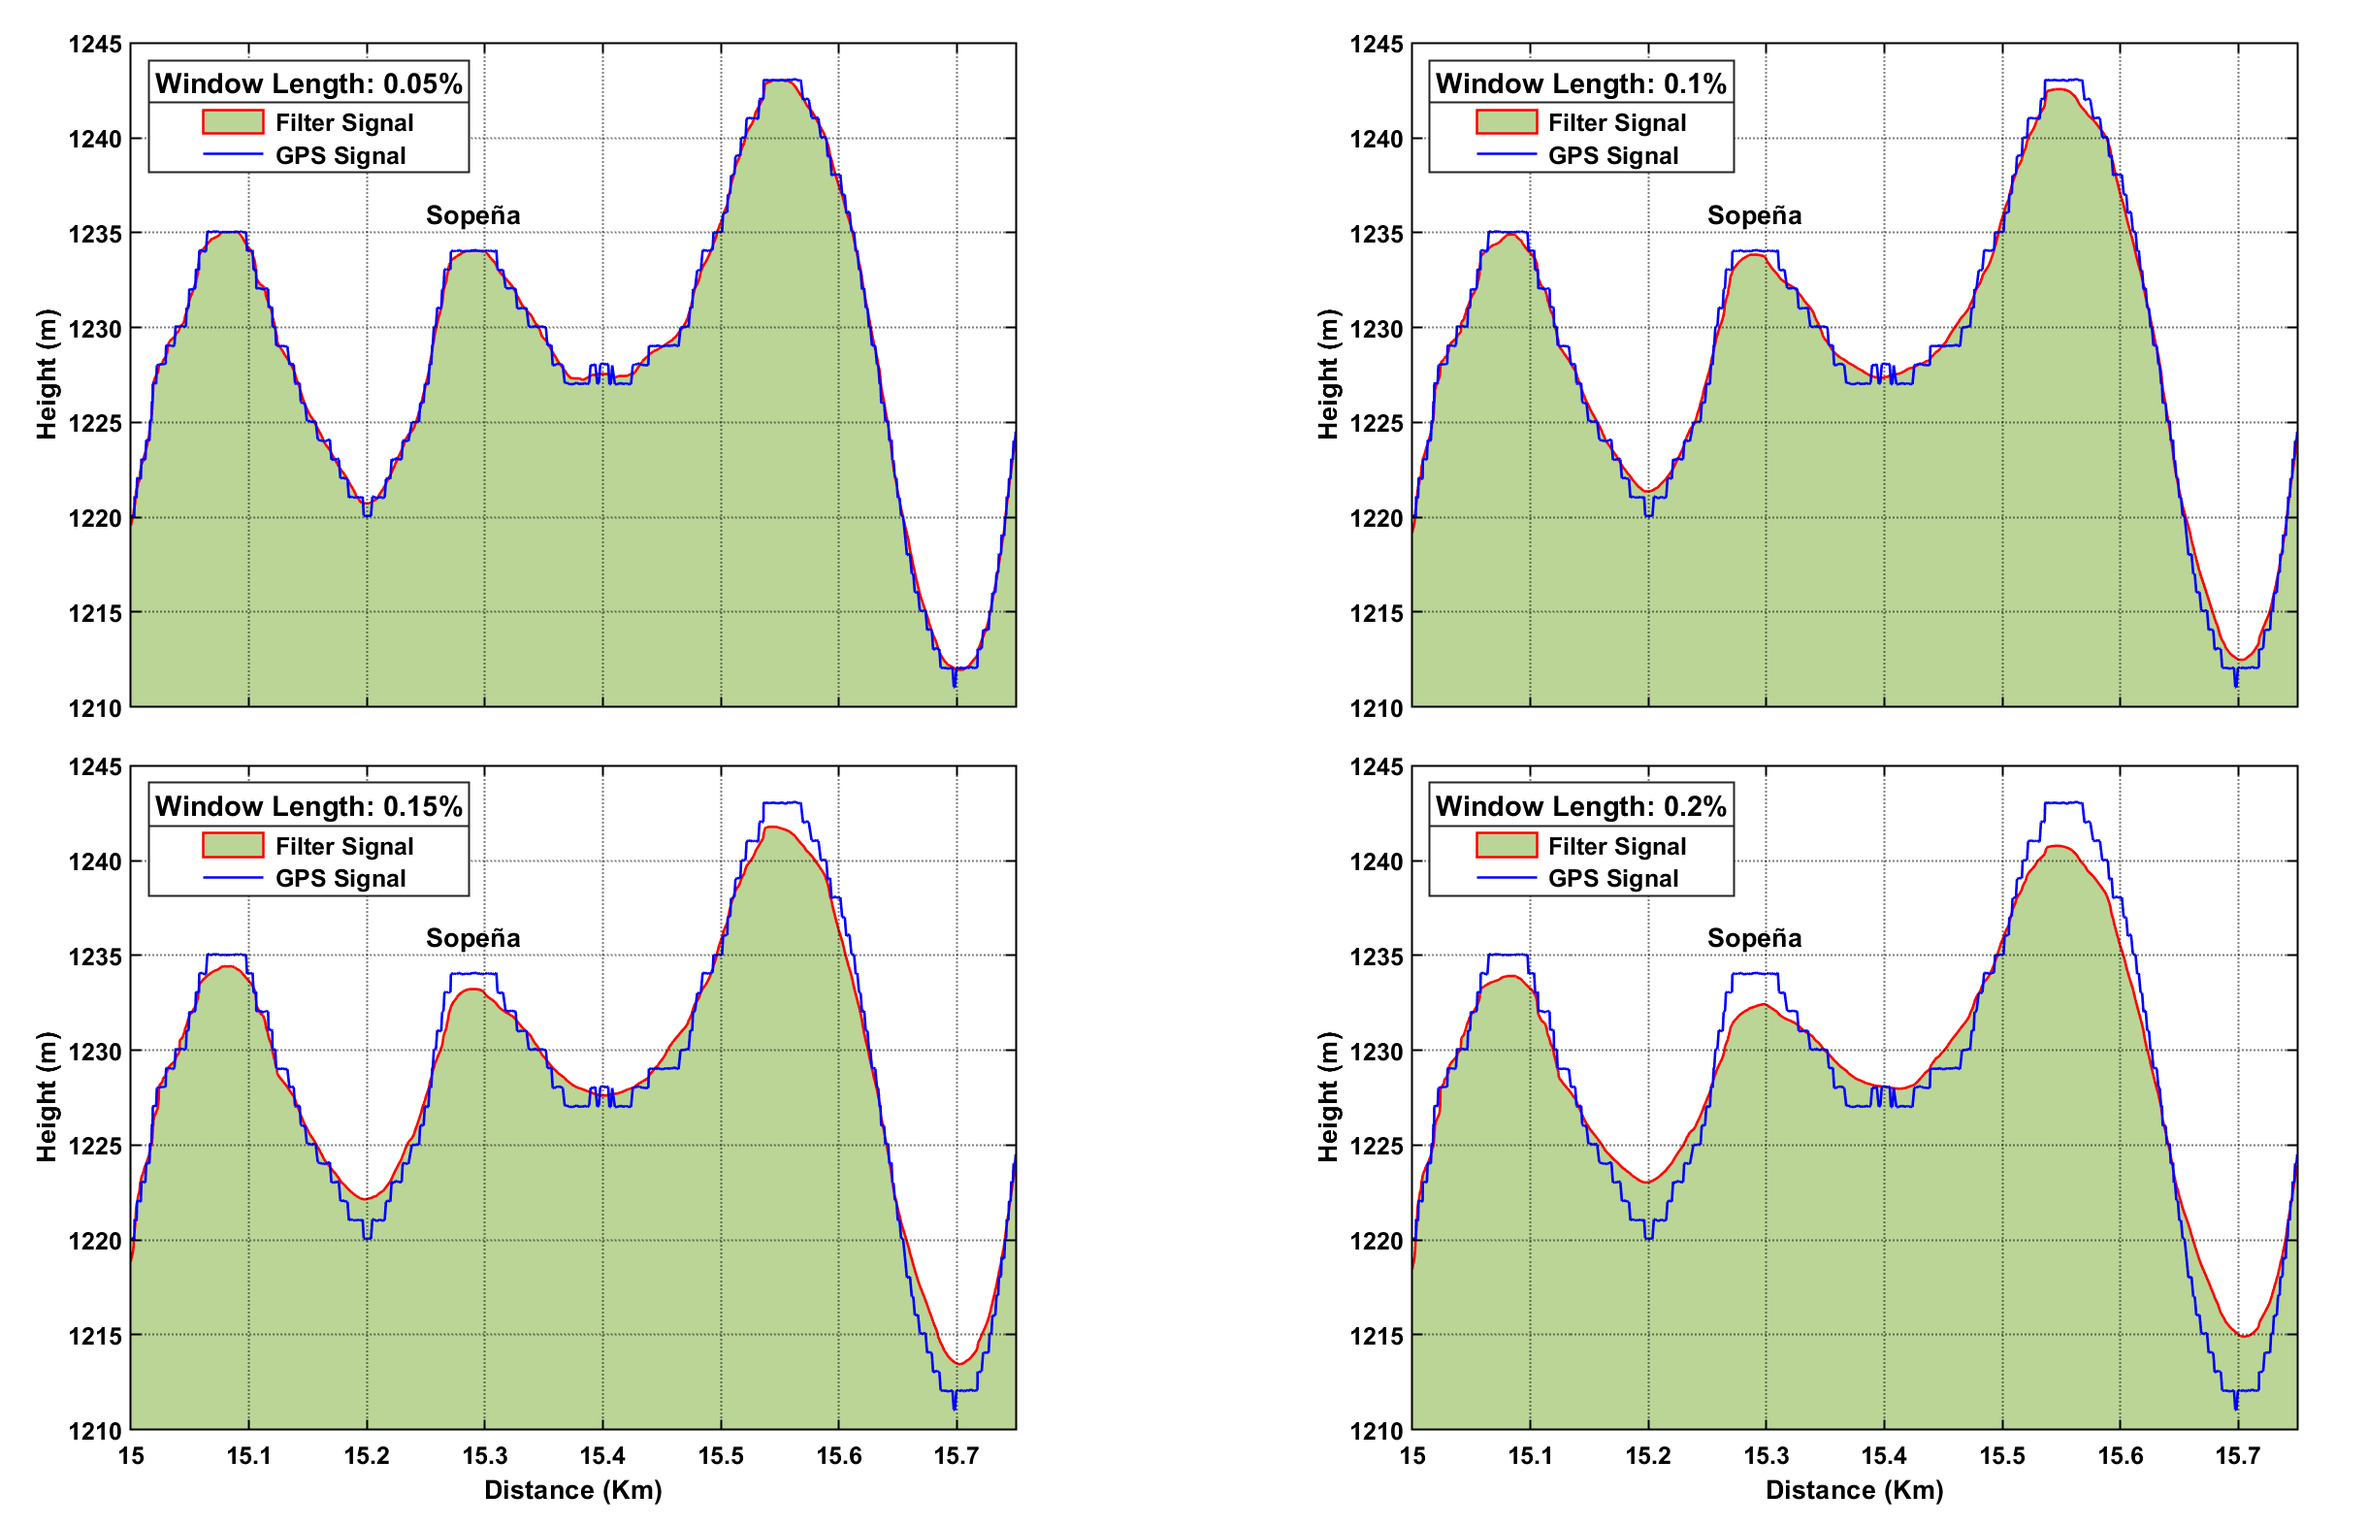
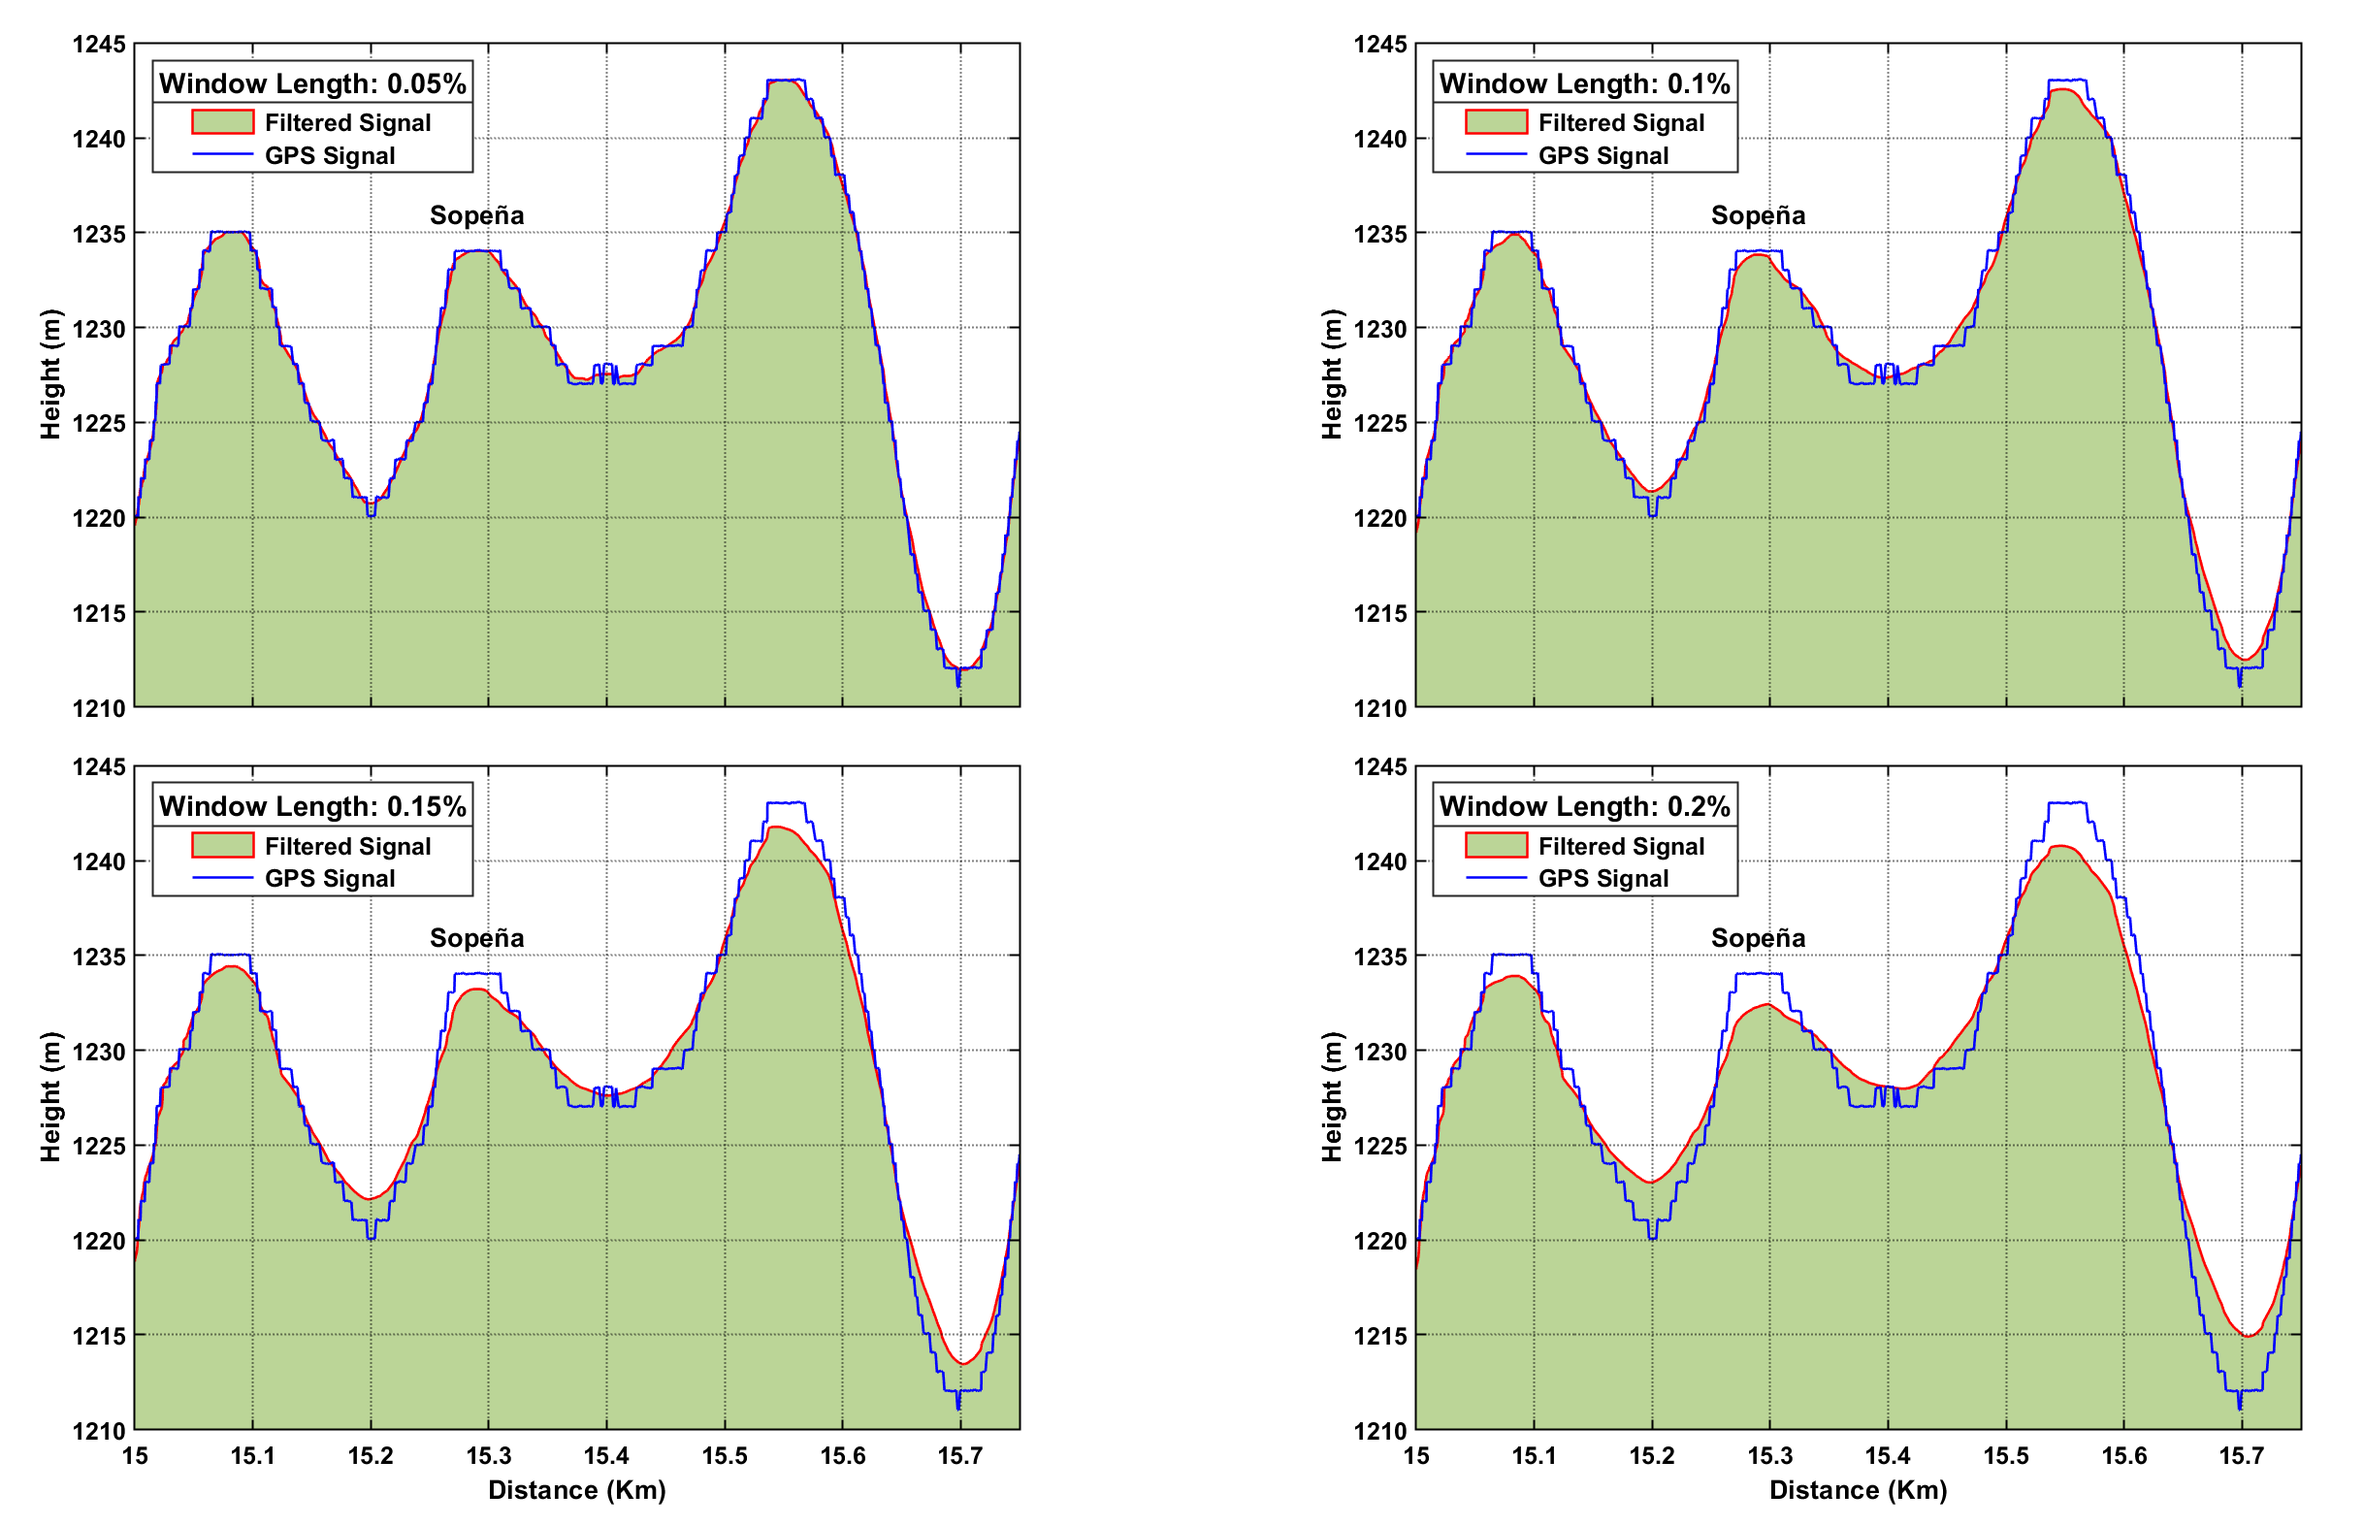
update readme

diff --git a/filterSignalsPlot.m b/filterSignalsPlot.m
@@ -82,7 +82,7 @@ for k=1:length(percents)
     axis([x_min x_max 0 4]);
     pbaspect([4 3 1])
 
-    ylabel('|Gps - Filter| (m)','FontSize',13,'FontWeight','bold','Color','k')
+    ylabel('|Gps - Filtered| (m)','FontSize',13,'FontWeight','bold','Color','k')
     
     % axis properties
     ax               = gca;
@@ -96,7 +96,7 @@ for k=1:length(percents)
     ax.LineWidth     = 1;
 
     fontsize = 16;
-    legen = legend(' Filter Signal',' GPS Signal','$|GPS-Filter|$','$\overline{|GPS-Filter|}$','interpreter','latex');
+    legen = legend(' Filtered Signal',' GPS Signal','$|GPS-Filtered|$','$\overline{|GPS-Filtered|}$','interpreter','latex');
     legen.Location  = 'northwest';
     legen.FontSize  = fontsize;
     

diff --git a/filterSignalsSubplot.m b/filterSignalsSubplot.m
@@ -57,7 +57,7 @@ for k=1:length(percents)
 
         ylabel('Height (m)','FontSize',12,'FontWeight','bold','Color','k')
        
-        legen = legend(' Filter Signal',' GPS Signal');
+        legen = legend(' Filtered Signal',' GPS Signal');
         legen.Location   = 'northwest';
         legen.FontSize   = 12;
         legen.FontWeight = 'bold';

diff --git a/README.md b/README.md
@@ -4,10 +4,34 @@ With this script you can represent and customize altitude profiles from .gpx fil
 
 ![ElevationProfile](filterImgs/SubPlotWindowLength.png)
 
+<br/>
+
 <p align="center">
-   <img src="filterImgs/filter_0.05.png" alt="drawing" width="70%"/>
-   <img src="filterImgs/filter_0.05.png" alt="drawing" width="70%"/>
-   <img src="filterImgs/filter_0.05.png" alt="drawing" width="70%"/>
+
+
+   $$
+   \overline{|GPS-Filtered|} = 0.271 m
+   $$
+   <img src="filterImgs/filter_0.05.png" alt="drawing" width="100%"/>
+   <br/><br/>
+
+   $$
+   \overline{|GPS-Filtered|} = 0.389m
+   $$
+   <img src="filterImgs/filter_0.10.png" alt="drawing" width="100%"/>
+   <br/><br/>
+   
+   $$
+   \overline{|GPS-Filtered|} = 0.544 m
+   $$
+   <img src="filterImgs/filter_0.15.png" alt="drawing" width="100%"/>
+   <br/><br/>
+
+   $$
+   \overline{|GPS-Filtered|} = 0.740 m
+   $$
+   <img src="filterImgs/filter_0.15.png" alt="drawing" width="100%"/>
+   <br/><br/>
 </p>
 
 # Elevation profiles final examples from my wikiloc routes
